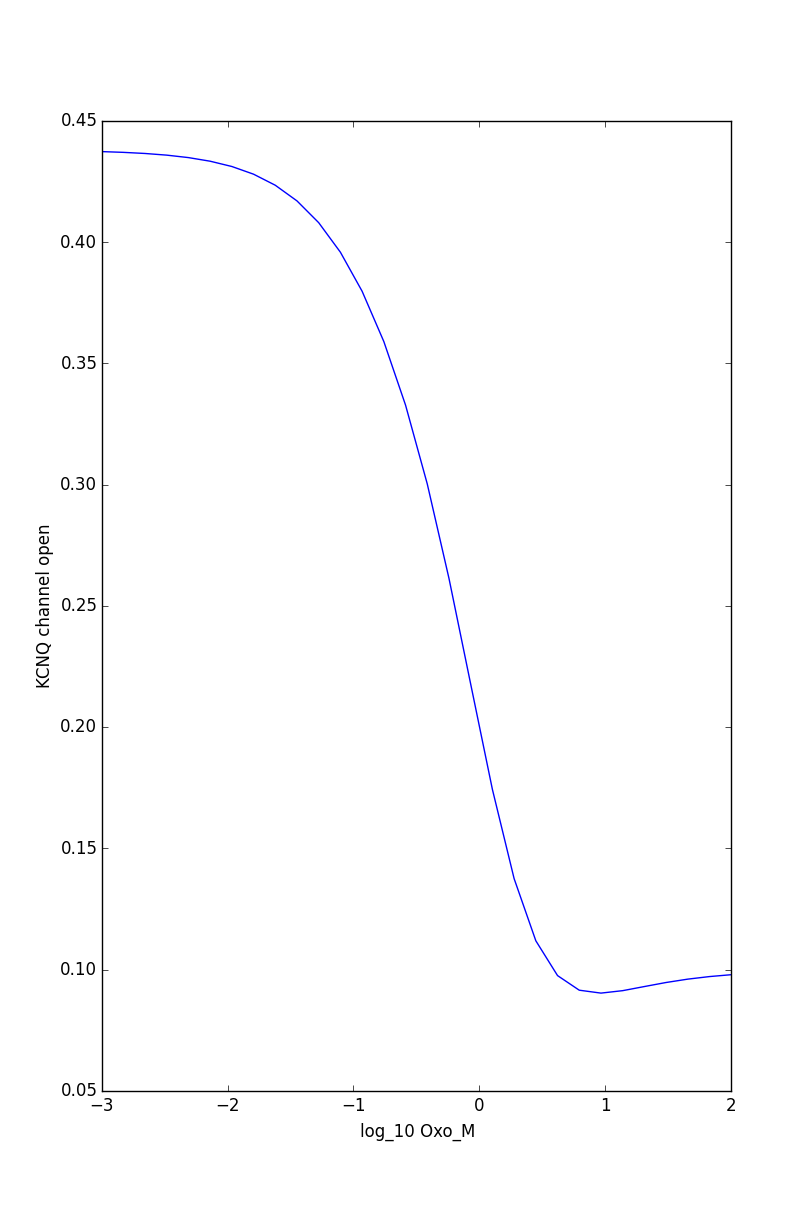
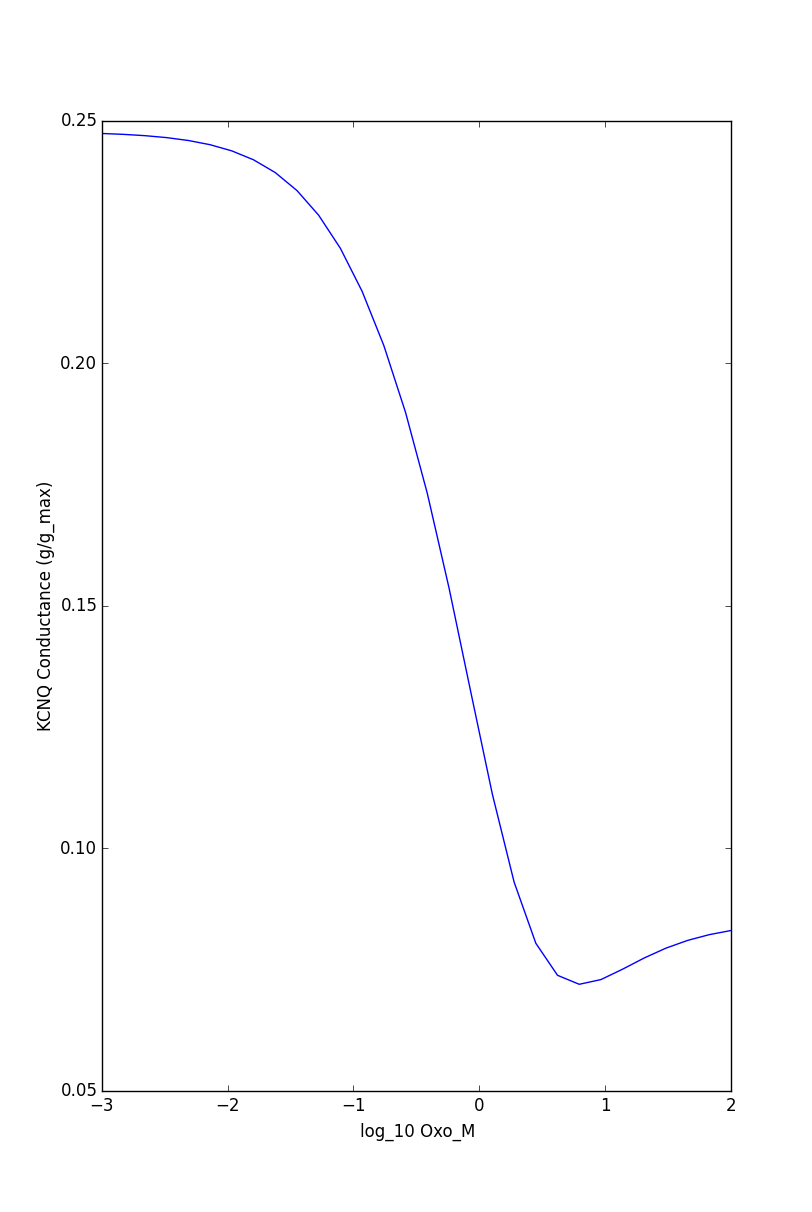
fixed timestep issues in odeint and problems plotting the correct x-range; made more plots

diff --git a/M1R_HH_KCNQ.py b/M1R_HH_KCNQ.py
@@ -14,17 +14,18 @@ from mpl_toolkits.mplot3d import Axes3D
 params = {
 
         'V_0' : -70e-3, # initial conditions
-        't_max' : 20e-3, 
-        't_step' : 1e-6,
+        't_max' : 3e1, 
+        't_step' : 1e-4,
+        'I_ext'  : 3.15e-9,   # injected current
+        'I_start' : 2e1,
+        'I_end' : 2e1+5e-4,
         'clamped_state' : 'False', #'False'=none, 0=voltage, 3=pip2
-        'I_ext'  : 2.1e-9,   # injected current
-        'I_start' : 10e-3,
-        'I_end' : 10e-3+5e-4,
 
-        'oxoM_EX_0' : 0e1,      # initial state
+
+        'oxoM_EX_0' : 1e1,      # initial state
         'PIP2_M_0' : 1e2,    
-        'KCNQ_M_0' : 4.0,     
         'KCNQ_PIP2_M_0' : 0.0,   
+        'KCNQ_M_0' : 4.0,     
         'RLG_GDP_M_0' : 0.0,   
         'RG_GDP_M_0' : 0.0,   
         'DAG_M_0' : 1e2, #2.0e3,
@@ -53,7 +54,7 @@ params = {
         'k_E'           : -9.0e-2,
         'k_G'           : 2.0e-7, #2.0/3.5*1e-8
         'KCNQ_E' : -9.0e-2,
-        'KCNQ_G': 0, #2.0e-8,       #compare to k_G
+        'KCNQ_G': 2.0e-8,       #compare to k_G
         'k_Na_act'      : 3.0e+0,
         'A_alpha_m' : 2.0e+5,
         'B_alpha_m' : -4.0e-2,
@@ -360,7 +361,7 @@ def neuron(state, t, params):
         if params['clamped_state'] == 0 or params['clamped_state'] == 3:
                 state_new.insert(params['clamped_state'],0) 
                 state_new.pop(params['clamped_state'] + 1)
-
+        # print t
         return state_new
 
 def get_state0(params):
@@ -400,28 +401,33 @@ def dynamics_experiment(t,params):
         state0 = get_state0(params)
 
         #run the simulation
-        state = odeint(neuron, state0, t, args=(params,))
+        # a and b are critical integration points
+        a = t[params['I_start']/params['t_step']]
+        b = t[params['I_end']/params['t_step']]
+        state = odeint(neuron, state0, t, args=(params,), tcrit = [a,b])
 
         # plot the results
-        # a = int((params['I_start']-1) / params['t_step'])
-        # b = int((params['I_end']+1) / params['t_step']) #int(params['t_max']/params['t_step']) #
+        a = params['I_start']-1e-2
+        b = params['I_end']+1e-2
 
         fig=plt.figure(figsize=(8,12))
-        ax=fig.add_subplot(211)
+        ax=fig.add_subplot(311)
         ax.plot(t, state[:,0])
+        ax.set_xlim([a,b])
+        ax.ticklabel_format(useOffset=False)
         ax.set_xlabel('Time')
         ax.set_ylabel('Membrane Potential V (mV)')
-        ax=fig.add_subplot(212)
-        m, = ax.plot(t, state[:,22], label="Na+ activaiton (m)")
-        h, = ax.plot(t, state[:,23], label="Na+ inactivaiton (h)")
-        n, = ax.plot(t, state[:,24], label="K+ activaiton (n)")
-        ax.legend(handles = [m,h,n], loc=2)
+
+        ax=fig.add_subplot(312)
+        # m, = ax.plot(t, state[:,22], label="Na+ activaiton (m)")
+        # h, = ax.plot(t, state[:,23], label="Na+ inactivaiton (h)")
+        # n, = ax.plot(t, state[:,24], label="K+ activaiton (n)")
+
+        ax.plot(t, state[:,3])
+        ax.set_xlim([a,b])
+        ax.ticklabel_format(useOffset=False)
         ax.set_xlabel('Time')
-        ax.set_ylabel('Voltage-gated Domain Activation')
-        # ax=fig.add_subplot(212)
-        # ax.plot(t, state[:,3])
-        # ax.set_xlabel('Time')
-        # ax.set_ylabel('PIP2')
+        ax.set_ylabel('PIP2')
 
         #recalculation of KCNQ_open
         KCNQ_open_recalc=[]
@@ -439,10 +445,14 @@ def dynamics_experiment(t,params):
                 PP0=(kg+kv*kg+kp*kg+theta*kv*kp*kg)/(1+kg+kp+kv+kv*kg+kp*kg+kv*kp+theta*kv*kp*kg)
                 PP0_max=(kg+theta*kp*kg)/(1+kg+kp+theta*kp*kg)
                 KCNQ_open_recalc.append(PP0/PP0_max)
-        # ax=fig.add_subplot(212)
-        # ax.plot(t, KCNQ_open_recalc)
-        # ax.set_xlabel('time')
-        # ax.set_ylabel('KCNQ channel activation')
+
+        ax=fig.add_subplot(313)
+        kcnq, = ax.plot(t, KCNQ_open_recalc, label="KCNQ activaiton")
+        # ax.legend(handles = [m,h,n,kcnq], loc=2)
+        ax.set_xlim([a,b])
+        ax.ticklabel_format(useOffset=False)
+        ax.set_xlabel('Time')
+        ax.set_ylabel('KCNQ Conductance (g/g_max)')
 
         plt.show()
 
@@ -506,7 +516,7 @@ def oxom_concentration_experiment(t,params,oxom_list):
         ax=fig.add_subplot(111)
         ax.plot(np.log10(oxom_list),KCNQ_open_list)
         ax.set_xlabel('log_10 Oxo_M')
-        ax.set_ylabel('KCNQ channel open')
+        ax.set_ylabel('KCNQ Conductance (g/g_max)')
         plt.show()
 
 def main(params):
